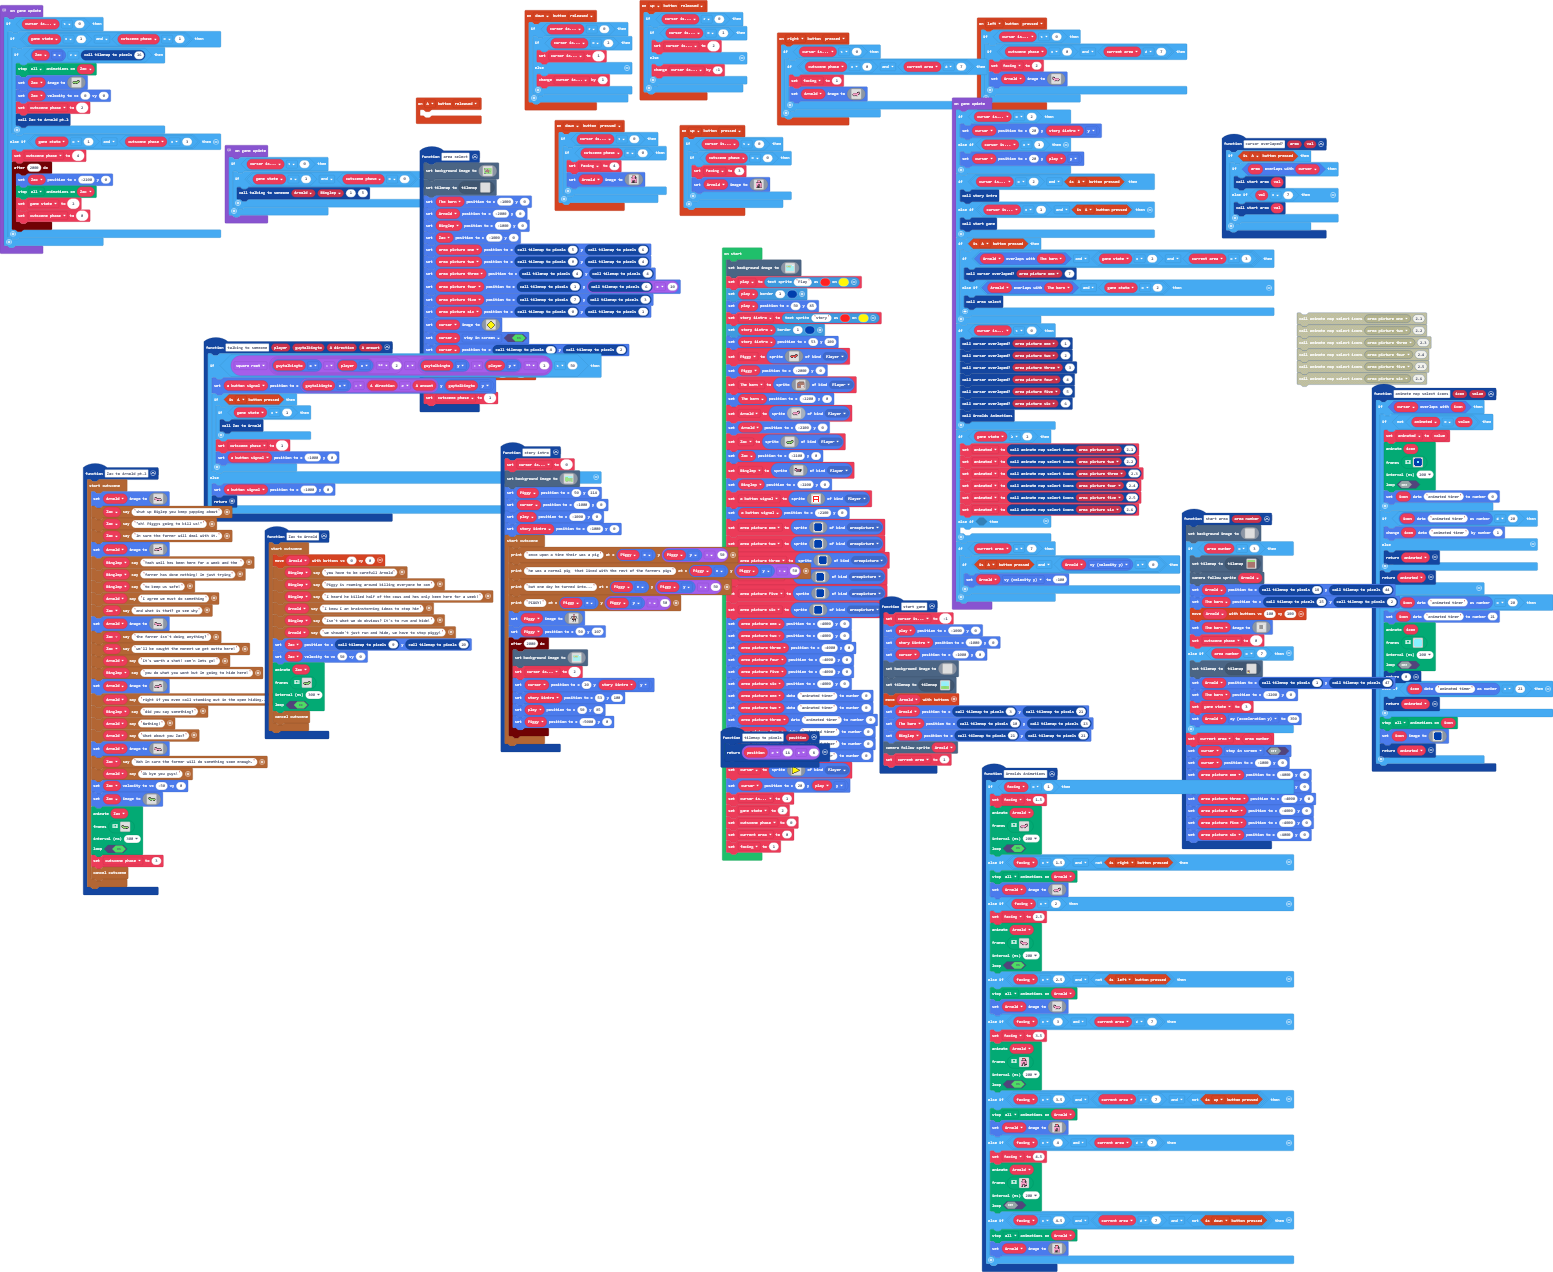
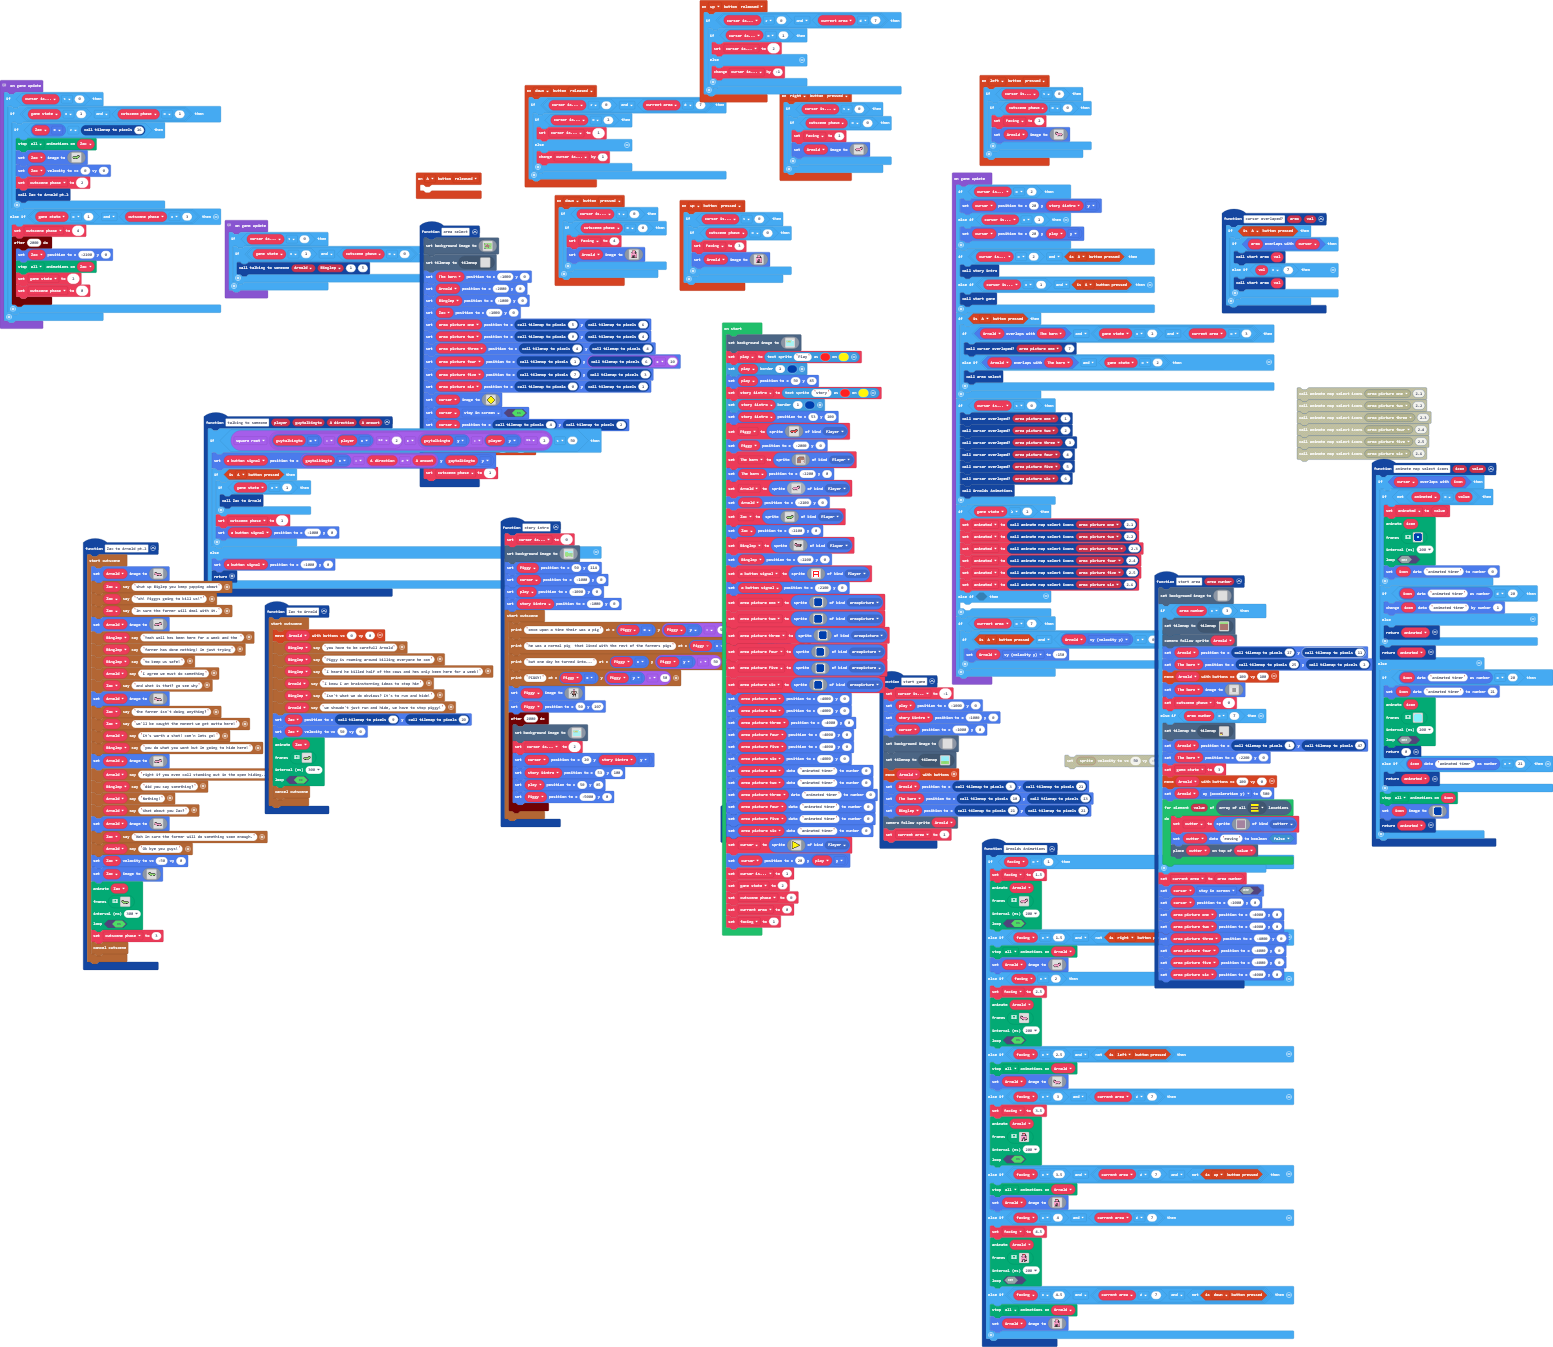
I started the making of a new obstacle in area 7.

diff --git a/tilemap.g.ts b/tilemap.g.ts
@@ -40,6 +40,12 @@ namespace myTiles {
     export const tile18 = image.ofBuffer(hex``);
     //% fixedInstance jres blockIdentity=images._tile
     export const tile19 = image.ofBuffer(hex``);
+    //% fixedInstance jres blockIdentity=images._tile
+    export const tile20 = image.ofBuffer(hex``);
+    //% fixedInstance jres blockIdentity=images._tile
+    export const tile21 = image.ofBuffer(hex``);
+    //% fixedInstance jres blockIdentity=images._tile
+    export const tile22 = image.ofBuffer(hex``);
 
     helpers._registerFactory("tilemap", function(name: string) {
         switch(helpers.stringTrim(name)) {
@@ -686,7 +692,7 @@ namespace myTiles {
 . . . . . . . . . . . . . . . . 
 `, [myTiles.transparency16], TileScale.Sixteen);
             case "level31":
-            case "level31":return tiles.createTilemap(hex`3200320000000000000000000000000000000000000000000000000000000000000000000000000000000000000000000000000000000000000000000000000000000000000000000000000000000000000000000000000000000000000000000000000000000000000000000000000000000000000000000000000000000000000000000000000000000000000000000000000000000000000000000000000000000000000000000000000000000000000000000000000000000000000000000000000000000000000000000000000000000000000000000000000000000000000000000000000000000000000000000000000000000000000000000000000000000000000000000000000000000000000000000000000000000000000000000000000000000000000000000000000000000000000000000000000000000000000000000000000000000000000000000000000000000000000000000000000000000000000000000000000000000000000000000000000000000000000000000000000000000000000000000000000000000000000000000000000000000000000000000000000000000000000000000000000000000000000000000000000000000000000000000000000000000000000000000000000000000000000000000000000000000000000000000000000000000000000000000000000000000000000000000000000000000000000000000000000000000000000000000000000000000000000000000000000000000000000000000000000000000000000000000000000000000000000000000000000000000000000000000000000000000000000000000000000000000000000000000000000000000000000000000000000000000000000000000000000000000000000000000000000000000000000000000000000000000000000000000000000000000000000000000000000000000000000000000000000000000000000000000000000000000000000000000000000000000000000000000000000000000000000000000000000000000000000000000000000000000000000000000000000000000000000000000000000000000000000000000000000000000000000000000000000000000000000000000000000000000000000000000000000000000000000000000000000000000000000000000000000000000000000000000000000000000000000000000000000000000000000000000000000000000000000000000000000000000000000000000000000000000000000000000000000000000000000000000000000000000000000000000000000000000000000000000000000000000000000000000000000000000000000000000000000000000000000000000000000000000000000000000000000000000000000000000000000000000000000000000000000000000000000000000000000000000000000000000000000000000000000000000000000000000000000000000000000000000000000000000000000000000000000000000000000000000000000000000000000000000000000000000000000000000000000000000000000000000000000000000000000000000000000000000000000000000000000000000000000000000000000000000000000000000000000000000000000000000000000000000000000000000000000000000000000000000000000000000000000000000000000000000000000000000000000000000000000000000000000000000000000000000000000000000000000000000000000000000000000000000000000000000000000000000000000000000000000000000000000000000000000000000000000000000000000000000000000000000000000000000000000000000000000000000000000000000000000000000000000000000000000000000000000000000000000000000000000000000000000000000000000000000000000000000000000000000000000000000000000000000000000000000000000000000000000000000000000000000000000000000000000000000000000000000000000000000000000000000000000000000000000000000000000000000000000000000000000000000000000000000000000000000000000000000000000000000000000000000000000000000000000000000000000000000000000000000000000000000000000000000000000000000000000000000000000000000000000000000000000000000000000000000000000000000000000000000000000000000000000000000000000000000000000000000000000000000000000000000000000000000101010101010101010101010101010100000000000000000000000000000000000000000000000000000000000000000000010101010101010101010101010101010000000000000000000000000000000000000000000000000000000000000000000001010101010101010101010101010101000000000000000000000000000000000000000000000000000000000000000000000101010101010101010101010101010100000000000000000000000000000000000000000000000000000000000000000000010101010101010101010101010101010000000000000000000000000000000000000000000000000000000000000000000001010101010101010101010101010101000000000000000000000000000000000000000000000000000000000000000000000101010101010101010101010101010100000000000000000000000000000000000000000000000000000000000000000000010101010101010101010101010101010000000000000000000000000000000000000000000000000000000000000000000001010101010101010101010101010101000000000000000000000000000000000000000000000000000000000000000000000202020202020202020202020202020200000000000000000000000000000000000000000000000000000000000000000000020202020202020202020202020202020000000000000000000000000000000000000000000000000000000000000000000002020202020202020202020202020202000000000000000000000000000000000000000000000000000000000000000000000202020202020202020202020201010101010100000000000000000000000000000000000000000000000000000000000000020202020202020202020202010101010101010000000000000000000000000000000000000000000000000000000000000001010102020202020202020101010101010101000000000000000000000000000000000000000000000000000000000000000101010101010101010101010101010101010100000000000000000000000000000000000000000000000000000000000000`, img`
+            case "level31":return tiles.createTilemap(hex`3200320000000000000000000000000000000000000000000000000000000000000000000000000000000000000000000000000000000000000000000000000000000000000000000000000000000000000000000000000000000000000000000000000000000000000000000000000000000000000000000000000000000000000000000000000000000000000000000000000000000000000000000000000000000000000000000000000000000000000000000000000000000000000000000000000000000000000000000000000000000000000000000000000000000000000000000000000000000000000000000000000000000000000000000000000000000000000000000000000000000000000000000000000000000000000000000000000000000000000000000000000000000000000000000000000000000000000000000000000000000000000000000000000000000000000000000000000000000000000000000000000000000000000000000000000000000000000000000000000000000000000000000000000000000000000000000000000000000000000000000000000000000000000000000000000000000000000000000000000000000000000000000000000000000000000000000000000000000000000000000000000000000000000000000000000000000000000000000000000000000000000000000000000000000000000000000000000000000000000000000000000000000000000000000000000000000000000000000000000000000000000000000000000000000000000000000000000000000000000000000000000000000000000000000000000000000000000000000000000000000000000000000000000000000000000000000000000000000000000000000000000000000000000000000000000000000000000000000000000000000000000000000000000000000000000000000000000000000000000000000000000000000000000000000000000000000000000000000000000000000000000000000000000000000000000000000000000000000000000000000000000000000000000000000000000000000000000000000000000000000000000000000000000000000000000000000000000000000000000000000000000000000000000000000000000000000000000000000000000000000000000000000000000000000000000000000000000000000000000000000000000000000000000000000000000000000000000000000000000000000000000000000000000000000000000000000000000000000000000000000000000000000000000000000000000000000000000000000000000000000000000000000000000000000000000000000000000000000000000000000000000000000000000000000000000000000000000000000000000000000000000000000000000000000000000000000000000000000000000000000000000000000000000000000000000000000000000000000000000000000000000000000000000000000000000000000000000000000000000000000000000000000000000000000000000000000000000000000000000000000000000000000000000000000000000000000000000000000000000000000000000000000000000000000000000000000000000000000000000000000000000000000000000000000000000000000000000000000000000000000000000000000000000000000000000000000000000000000000000000000000000000000000000000000000000000000000000000000000000000000000000000000000000000000000000000000000000000000000000000000000000000000000000000000000000000000000000000000000000000000000000000000000000000000000000000000000000000000000000000000000000000000000000000000000000000000000000000000000000000000000000000000000000000000000000000000000000000000000000000000000000000000000000000000000000000000000000000000000000000000000000000000000000000000000000000000000000000000000000000000000000000000000000000000000000000000000000000000000000000000000000000000000000000000000000000000000000000000000000000000000000000000000000000000000000000000000000000000000000000000000000000000000000000000000000000000000000000000000000000000000000000000000000000000000000000000000000000000000000000000000000000000000000000000000000000000000000000000101010101010101010101010101010100000000000000000000000000000000000000000000000000000000000000000000010101010101010101010101010101010000000000000000000000000000000000000000000000000000000000000000000001010101010101010101010101010101000000000000000000000000000000000000000000000000000000000000000000000101010101010101010101010101010100000000000000000000000000000000000000000000000000000000000000000000010101010101010101010101010101010000000000000000000000000000000000000000000000000000000000000000000001010101010101010101010101010101000000000000000000000000000000000000000000000000000000000000000000000101010101010101010101010101010100000000000000000000000000000000000000000000000000000000000000000000010101010101010101010101010101010000000000000000000000000000000000000000000000000000000000000000000001010101010101010101010101010101000000000000000000000000000000000000000000000000000000000000000000000202020202020202020202020202020200000000000000000000000000000000000000000000000000000000000000000000020202020202020202020202020202020000000000000000000000000000000000000000000000000000000000000000000002020202020202020202020202020202000000000000000000000000000000000000000000000000000000000000000000000202020304050202020202020201010101010100000000000000000000000000000000000000000000000000000000000000020202020202020202020202010101010101010000000000000000000000000000000000000000000000000000000000000001010102020202020202020101010101010101000000000000000000000000000000000000000000000000000000000000000101010101010101010101010101010101010100000000000000000000000000000000000000000000000000000000000000`, img`
 ..................................................
 ..................................................
 ..................................................
@@ -737,7 +743,7 @@ namespace myTiles {
 ............2222222...............................
 222........22222222...............................
 2222222222222222222...............................
-`, [myTiles.transparency16,myTiles.tile17,myTiles.tile18], TileScale.Sixteen);
+`, [myTiles.transparency16,myTiles.tile17,myTiles.tile18,myTiles.tile20,myTiles.tile21,myTiles.tile22], TileScale.Sixteen);
         }
         return null;
     })
@@ -783,6 +789,12 @@ namespace myTiles {
             case "tile18":return tile18;
             case "myTile17":
             case "tile19":return tile19;
+            case "myTile18":
+            case "tile20":return tile20;
+            case "myTile19":
+            case "tile21":return tile21;
+            case "myTile20":
+            case "tile22":return tile22;
         }
         return null;
     })

diff --git a/main.ts b/main.ts
@@ -5,6 +5,7 @@ namespace SpriteKind {
     export const plug = SpriteKind.create()
     export const generatortop = SpriteKind.create()
     export const areapicture = SpriteKind.create()
+    export const cutterr = SpriteKind.create()
 }
 controller.up.onEvent(ControllerButtonEvent.Pressed, function () {
     if (cursor_is < 0) {
@@ -160,7 +161,7 @@ function start_area (area_number: number) {
     if (area_number == 3) {
         tiles.setCurrentTilemap(tilemap`level27`)
         scene.cameraFollowSprite(Arnold)
-        Arnold.setPosition(tilemap_to_pixels(18), tilemap_to_pixels(44))
+        Arnold.setPosition(tilemap_to_pixels(27), tilemap_to_pixels(11))
         The_barn.setPosition(tilemap_to_pixels(25), tilemap_to_pixels(2))
         controller.moveSprite(Arnold, 100, 100)
         The_barn.setImage(img`
@@ -321,7 +322,30 @@ function start_area (area_number: number) {
         Arnold.setPosition(tilemap_to_pixels(1), tilemap_to_pixels(47))
         The_barn.setPosition(-2200, 0)
         game_state = 3
-        Arnold.ay = 350
+        controller.moveSprite(Arnold, 100, 0)
+        Arnold.ay = 500
+        for (let value of tiles.getTilesByType(assets.tile`myTile20`)) {
+            cutter = sprites.create(img`
+                b b b b b b b b b b b b b b b b 
+                b b b b b b b b b b b b b b b b 
+                b b b b b b b b b b b b b b b b 
+                b b b b b b b b b b b b b b b b 
+                b b b b b b b b b b b b b b b b 
+                b b b b b b b b b b b b b b b b 
+                b b b b b b b b b b b b b b b b 
+                b b b b b b b b b b b b b b b b 
+                b b b b b b b b b b b b b b b b 
+                b b b b b b b b b b b b b b b b 
+                b b b b b b b b b b b b b b b b 
+                b b b b b b b b b b b b b b b b 
+                b b b b b b b b b b b b b b b b 
+                b b b b b b b b b b b b b b b b 
+                b b b b b b b b b b b b b b b b 
+                b b b b b b b b b b b b b b b b 
+                `, SpriteKind.cutterr)
+            sprites.setDataBoolean(cutter, "moving", false)
+            tiles.placeOnTile(cutter, value)
+        }
     }
     current_area = area_number
     cursor.setFlag(SpriteFlag.StayInScreen, false)
@@ -469,7 +493,7 @@ function start_game () {
     current_area = 1
 }
 controller.down.onEvent(ControllerButtonEvent.Released, function () {
-    if (cursor_is > 0) {
+    if (cursor_is > 0 && current_area != 7) {
         if (cursor_is == 2) {
             cursor_is = 1
         } else {
@@ -479,7 +503,7 @@ controller.down.onEvent(ControllerButtonEvent.Released, function () {
 })
 controller.left.onEvent(ControllerButtonEvent.Pressed, function () {
     if (cursor_is < 0) {
-        if (cutscene_phase == 0 && current_area != 7) {
+        if (cutscene_phase == 0) {
             facing = 2
             Arnold.setImage(img`
                 ..ff.ff..................
@@ -551,7 +575,7 @@ function Zac_to_Arnold () {
 }
 controller.right.onEvent(ControllerButtonEvent.Pressed, function () {
     if (cursor_is < 0) {
-        if (cutscene_phase == 0 && current_area != 7) {
+        if (cutscene_phase == 0) {
             facing = 1
             Arnold.setImage(img`
                 ..................ff.ff..
@@ -577,7 +601,7 @@ controller.A.onEvent(ControllerButtonEvent.Released, function () {
 	
 })
 controller.up.onEvent(ControllerButtonEvent.Released, function () {
-    if (cursor_is > 0) {
+    if (cursor_is > 0 && current_area != 7) {
         if (cursor_is == 1) {
             cursor_is = 2
         } else {
@@ -1654,6 +1678,7 @@ function animate_map_select_icons (icon: Sprite, value: number) {
     }
 }
 let animated = 0
+let cutter: Sprite = null
 let facing = 0
 let current_area = 0
 let cutscene_phase = 0
@@ -2180,7 +2205,7 @@ game.onUpdate(function () {
     }
     if (current_area == 7) {
         if (controller.A.isPressed() && Arnold.vy == 0) {
-            Arnold.vy = -100
+            Arnold.vy = -150
         }
     }
 })
